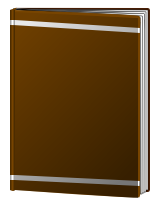
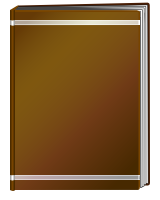
git-svn-id: https://www.ekylibre.org/svn/trunk/ekylibre@67 67a09383-3dfa-4221-8551-890bac9c277c

diff --git a/public/stylesheets/application.css b/public/stylesheets/application.css
@@ -99,5 +99,6 @@ a.button:hover, a.button:active, a.button:focus { padding: 2px 7px;}
 /* END */
 
 .journal { margin:8px; float:left; background: #DDF; width:160px; height:200px;}
-.journal > div {  background: url(/images/template/journal.png); width:115px; height:120px; padding: 40px 27px 40px 18px; text-align:center; color: white;}
+.journal > div { background: url(/images/template/journal.png); width:115px; height:120px; padding: 40px 27px 40px 18px; text-align:center; vertical-align: middle; color: white;}
 #new-journal { background: yellow; }
+#new-journal > div { background: url(/images/template/new_journal.png);}
